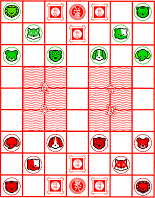
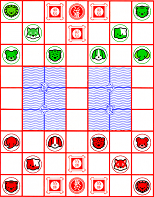
Duel (smart-moves=to)

diff --git a/public/dagaz/common-scripts/move-list-v1.js b/public/dagaz/common-scripts/move-list-v1.js
@@ -102,6 +102,21 @@ MoveList.prototype.getStarts = function() {
   return result;
 }
 
+MoveList.prototype.isUniqDest = function(pos) {
+  var res = [];
+  _.each(this.moves, function(move) {
+      _.each(move.actions, function(a) {
+         if (a[3] - 1 != this.level) return;
+         if (a[0] === null) return;
+         if (a[1] === null) return;
+         if (a[1][0] != pos) return;
+         if (_.indexOf(res, +a[0][0]) >= 0) return;
+         res.push(+a[0][0]);
+      }, this);
+  }, this);
+  return res.length == 1;
+}
+
 MoveList.prototype.getStops = function() {
   if (this.stops !== null) {
       return this.stops;
@@ -140,10 +155,12 @@ MoveList.prototype.getStops = function() {
       }, this);
       positions = _.countBy(positions, _.identity);
       _.each(_.keys(positions), function(pos) {
-            if (positions[pos] == 1) {
+            if ((positions[pos] == 1) || 
+                (Dagaz.Model.smartTo && (positions[pos] > 1) && (this.level > 0)) ||
+                (Dagaz.Model.smartTo && (positions[pos] > 1) && this.isUniqDest(+pos))) {
                 result.push(+pos);
             }
-      });
+      }, this);
   }
   result = _.uniq(result);
   this.stops = result;

diff --git a/public/dagaz/scripts/hanga-roa-north.js b/public/dagaz/scripts/hanga-roa-north.js
@@ -24,7 +24,7 @@ ZRF = {
 Dagaz.Model.BuildDesign = function(design) {
     design.checkVersion("z2j", "2");
     design.checkVersion("animate-captures", "false");
-    design.checkVersion("smart-moves", "false");
+    design.checkVersion("smart-moves", "to");
     design.checkVersion("show-blink", "true");
     design.checkVersion("show-hints", "false");
     design.checkVersion("highlight-goals", "false");

diff --git a/public/dagaz/scripts/hanga-roa.js b/public/dagaz/scripts/hanga-roa.js
@@ -24,7 +24,7 @@ ZRF = {
 Dagaz.Model.BuildDesign = function(design) {
     design.checkVersion("z2j", "2");
     design.checkVersion("animate-captures", "false");
-    design.checkVersion("smart-moves", "false");
+    design.checkVersion("smart-moves", "to");
     design.checkVersion("show-blink", "true");
     design.checkVersion("show-hints", "false");
     design.checkVersion("highlight-goals", "false");

diff --git a/public/dagaz/scripts/amazons-north.js b/public/dagaz/scripts/amazons-north.js
@@ -24,7 +24,7 @@ ZRF = {
 Dagaz.Model.BuildDesign = function(design) {
     design.checkVersion("z2j", "2");
     design.checkVersion("animate-captures", "false");
-    design.checkVersion("smart-moves", "false");
+    design.checkVersion("smart-moves", "to");
     design.checkVersion("show-blink", "true");
     design.checkVersion("highlight-goals", "false");
 

diff --git a/public/dagaz/scripts/amazons.js b/public/dagaz/scripts/amazons.js
@@ -24,7 +24,7 @@ ZRF = {
 Dagaz.Model.BuildDesign = function(design) {
     design.checkVersion("z2j", "2");
     design.checkVersion("animate-captures", "false");
-    design.checkVersion("smart-moves", "false");
+    design.checkVersion("smart-moves", "to");
     design.checkVersion("show-blink", "true");
     design.checkVersion("highlight-goals", "false");
 

diff --git a/public/dagaz/scripts/duel-north.js b/public/dagaz/scripts/duel-north.js
@@ -23,7 +23,7 @@ ZRF = {
 
 Dagaz.Model.BuildDesign = function(design) {
     design.checkVersion("z2j", "2");
-    design.checkVersion("smart-moves", "false");
+    design.checkVersion("smart-moves", "to");
     design.checkVersion("pass-partial", "false");
     design.checkVersion("detect-loops", "true");
 

diff --git a/public/dagaz/scripts/duel.js b/public/dagaz/scripts/duel.js
@@ -23,7 +23,7 @@ ZRF = {
 
 Dagaz.Model.BuildDesign = function(design) {
     design.checkVersion("z2j", "2");
-    design.checkVersion("smart-moves", "false");
+    design.checkVersion("smart-moves", "to");
     design.checkVersion("pass-partial", "false");
     design.checkVersion("detect-loops", "true");
 

diff --git a/public/dagaz/scripts/chessball-black.js b/public/dagaz/scripts/chessball-black.js
@@ -24,7 +24,7 @@ ZRF = {
 
 Dagaz.Model.BuildDesign = function(design) {
     design.checkVersion("z2j", "2");
-    design.checkVersion("smart-moves", "false");
+    design.checkVersion("smart-moves", "to");
     design.checkVersion("show-blink", "true");
 
     design.addDirection("se"); // 0

diff --git a/public/dagaz/scripts/chessball.js b/public/dagaz/scripts/chessball.js
@@ -24,7 +24,7 @@ ZRF = {
 
 Dagaz.Model.BuildDesign = function(design) {
     design.checkVersion("z2j", "2");
-    design.checkVersion("smart-moves", "false");
+    design.checkVersion("smart-moves", "to");
     design.checkVersion("show-blink", "true");
 
     design.addDirection("se"); // 0
